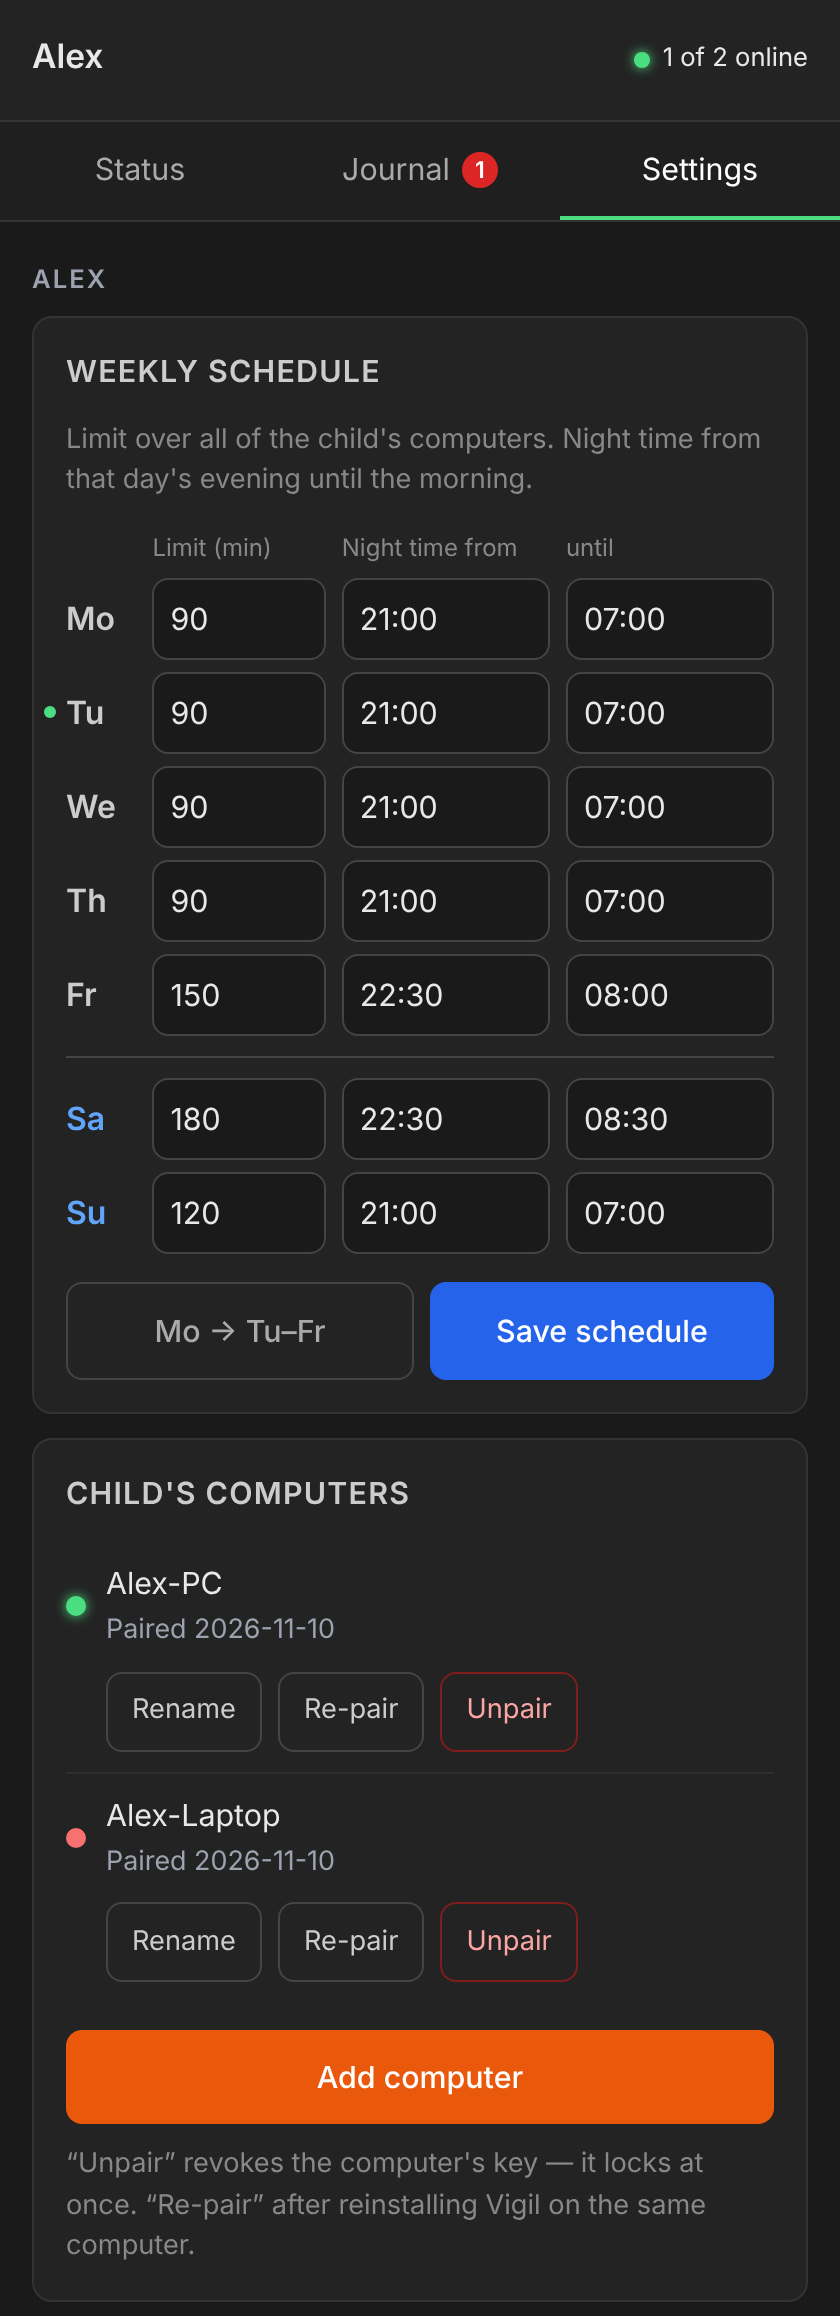
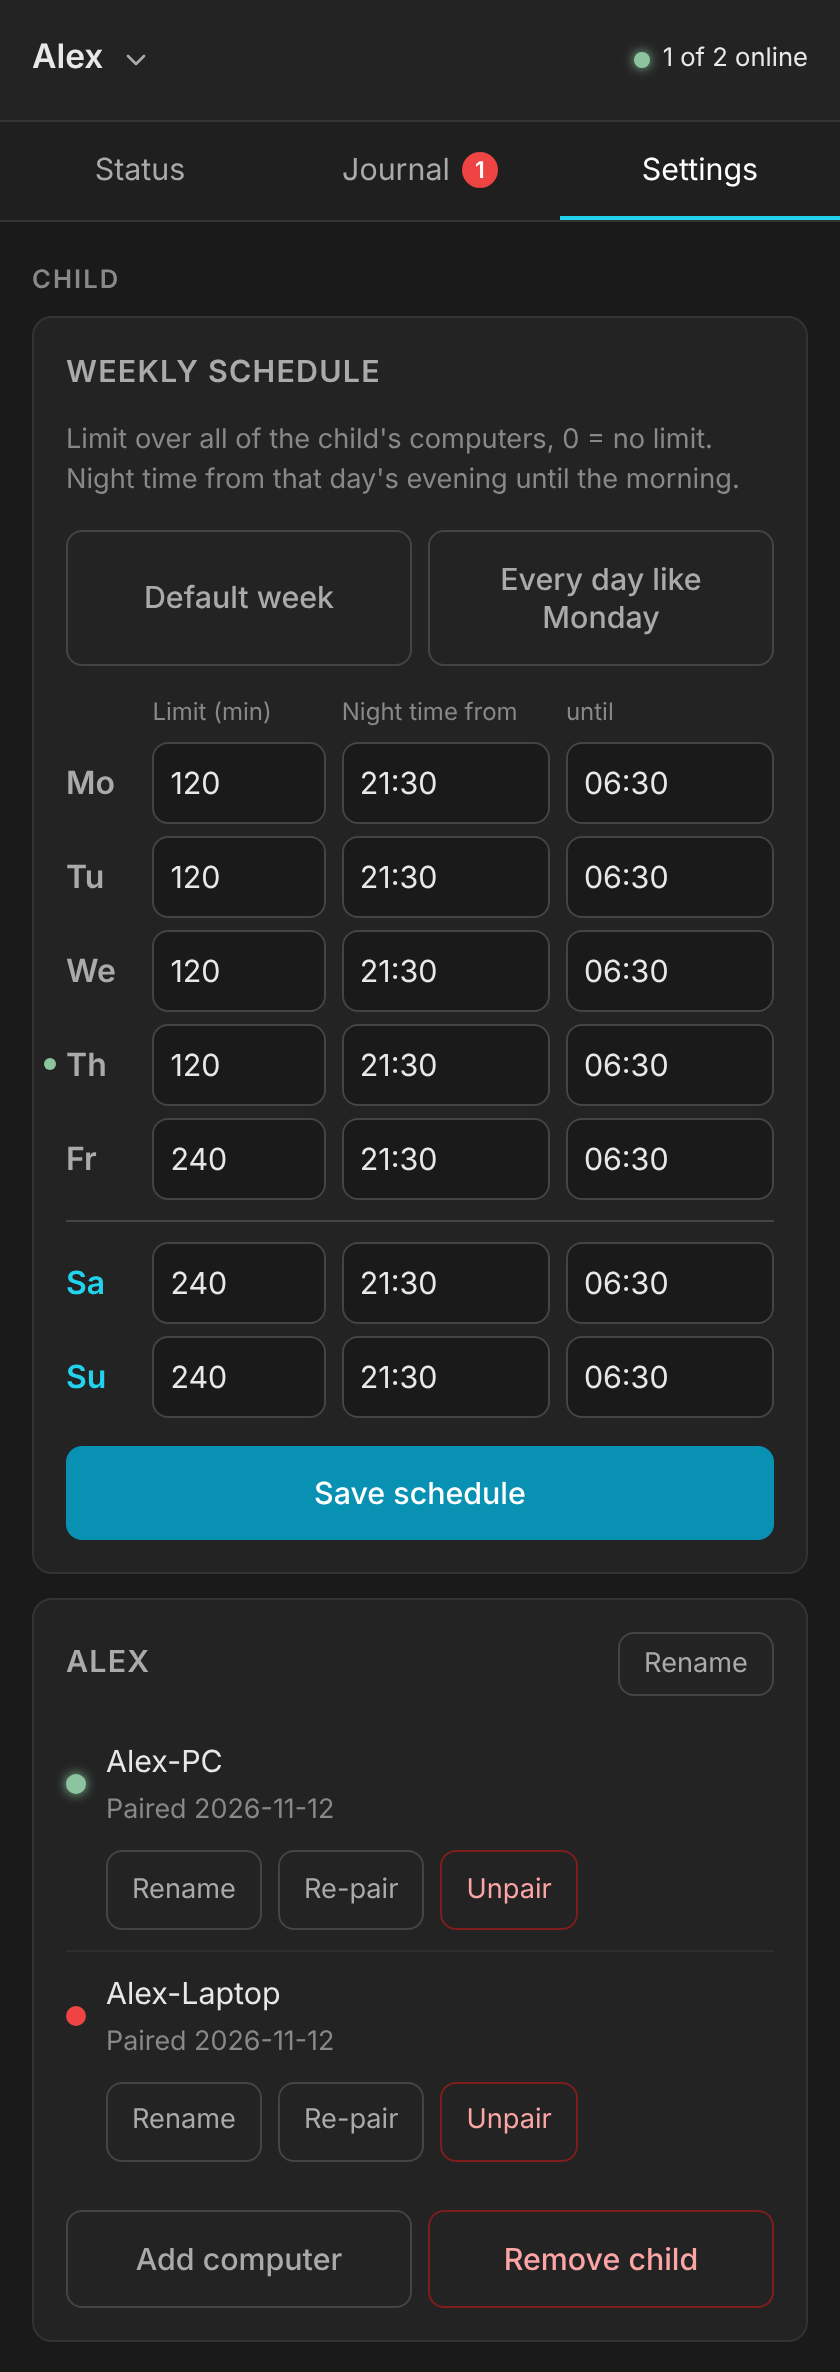
README and docs before v0.9.0: screenshots, Journal, D27 (#145)
- Panel screenshots of the current panel (seeded server, 420 px, DPR 2, English).
- Lock screen screenshots (limit, night) under "How it works", each README in its language.
- Features: the Journal shows when a computer was on, asleep or shut down.
- D27: fail-closed whatever the network, no grace after logon (#128).

Claude-Session: https://claude.ai/code/session_01L3FN1F9eJCsp5bTe7gHHf8

diff --git a/CLAUDE.md b/CLAUDE.md
@@ -27,7 +27,7 @@ everywhere the same problem occurs, not only where it was reported.
   `e2e/ui-standalone.ps1` (CI, before it): vigil_ui's test mode for every lock reason must close itself after
   `--exit-after`; it prints the CPU use and ui.log.
 - `docs/architecture.md` — protocol, IPC, file paths, time accounting. Read it before touching those.
-- `docs/decisions.md` — the design decisions D1–D26 the code refers to. `docs/installer.md`, `docs/guardian.md`
+- `docs/decisions.md` — the design decisions D1–D27 the code refers to. `docs/installer.md`, `docs/guardian.md`
   describe those parts. When a doc and the code disagree, the code wins: fix the doc.
 
 ## Verify before saying "done"
@@ -47,7 +47,7 @@ everywhere the same problem occurs, not only where it was reported.
 ## Invariants (changing any of these is a design decision — ask first)
 - **Fail-closed**: no server answer since the service started, or none for 30 s (monotonic clock, which counts
   sleep: after a wake-up the first failed heartbeat locks) ⇒ lock. Never fail-open. Whether the PC has a network
-  at all only picks the message (`network_down`, #128) — the child can switch Wi-Fi off without elevation.
+  at all only picks the message (`network_down`, #128, D27) — the child can switch Wi-Fi off without elevation.
 - **uvicorn `--workers 1`**: time accounting relies on a single process + `asyncio.Lock` in `get_db()`.
 - **Time is server-side**: delta between a device's heartbeats, clamped to `heartbeat_delta_max`, zero after a gap,
   added to its child (D7: time = sum over the child's devices; locks and settings are per child).

diff --git a/README.pl.md b/README.pl.md
@@ -36,6 +36,12 @@ wszystkim z przeglądarki i odblokowuje kodem TOTP z telefonu.
 - Zadanie strażnika przywraca to, co utrzymuje usługę przy życiu; każda naprawa i każdy inny ślad manipulacji
   trafia jako alert do panelu rodzica.
 
+<p align="center">
+  <img src="docs/images/lock-limit.pl.png" alt="Ekran blokady: czas na dziś się skończył, pole na kod od rodzica" width="380">
+  &nbsp;
+  <img src="docs/images/lock-night.pl.png" alt="Ekran blokady w ciszy nocnej: komputer odblokuje się o 06:30" width="380">
+</p>
+
 Szczegóły (po angielsku): [`docs/architecture.md`](docs/architecture.md).
 
 ## Co potrafi
@@ -45,7 +51,8 @@ Szczegóły (po angielsku): [`docs/architecture.md`](docs/architecture.md).
 - Blokada ręczna i dodatkowy czas z panelu; dodatkowy czas także kodem TOTP wpisanym na ekranie blokady.
 - Odblokowanie kodem z telefonu działa bez połączenia z serwerem.
 - Pauza uruchamiana przez dziecko z zasobnika: czas nie leci, ekran jest zablokowany.
-- Dziennik w panelu rodzica z alertami o próbach obejścia Vigila, potwierdzanymi przez rodzica.
+- Dziennik w panelu rodzica: kiedy każdy komputer był włączony, uśpiony albo wyłączony, co zmienił rodzic,
+  i alerty o próbach obejścia Vigila, potwierdzane przez rodzica.
 - Panel, ekran blokady i instalator po polsku albo angielsku — według języka przeglądarki i Windows.
 - Klient to jeden plik, `vigil_setup.exe`: kreator w konsoli do instalacji, menu do sprawdzenia, aktualizacji,
   ponownego parowania i odinstalowania.

diff --git a/README.md b/README.md
@@ -36,6 +36,12 @@ manages everything from a browser and unlocks with a TOTP code from their phone.
 - A guardian task puts back what keeps the service running; every repair and every other sign of tampering
   ends up as an alert in the parent panel.
 
+<p align="center">
+  <img src="docs/images/lock-limit.png" alt="Lock screen: the time for today is up, a field for the parent's code" width="380">
+  &nbsp;
+  <img src="docs/images/lock-night.png" alt="Lock screen at night time: the computer unlocks at 06:30" width="380">
+</p>
+
 Details: [`docs/architecture.md`](docs/architecture.md).
 
 ## Features
@@ -45,7 +51,8 @@ Details: [`docs/architecture.md`](docs/architecture.md).
 - Manual lock and extra time from the panel; extra time also with a TOTP code typed on the lock screen.
 - Unlocking with the phone code works without a connection to the server.
 - A pause the child starts from the tray: time is not counted, the screen is locked.
-- Journal in the parent panel with alerts about attempts to get around Vigil, confirmed by the parent.
+- Journal in the parent panel: when each computer was on, asleep or shut down, what the parent changed, and
+  alerts about attempts to get around Vigil, confirmed by the parent.
 - Panel, lock screen and installer in English or Polish, following the browser and Windows language.
 - The client is one file, `vigil_setup.exe`: a console wizard to install, a menu to check, update, re-pair or uninstall.
 

diff --git a/docs/architecture.md b/docs/architecture.md
@@ -1,6 +1,6 @@
 # Architecture
 
-How the system works today. The decisions behind it (D1–D26) are in [`decisions.md`](decisions.md), the
+How the system works today. The decisions behind it (D1–D27) are in [`decisions.md`](decisions.md), the
 installer in [`installer.md`](installer.md), the guardian in [`guardian.md`](guardian.md).
 
 ```
@@ -162,7 +162,7 @@ Wi-Fi joined, cable in).
    (local message), unless an offline grant is active (see Offline unlock). Also on request timeouts and
    unexpected exceptions. The grace runs on `Environment.TickCount64`, which counts sleep: after a wake-up — also
    from a shutdown with Fast Startup, which hibernates the service instead of stopping it — the PC is locked until
-   the server answers, so a PC that joins Wi-Fi after logon shows the lock for those seconds (#128).
+   the server answers, so a PC that joins Wi-Fi after logon shows the lock for those seconds (#128, D27).
    The reason only changes the message, never the lock: `device_unpaired` when the last failure was the server
    refusing this computer's key (401 `invalid_signature`: removed or re-paired in the panel), so the lock screen
    says the PC needs pairing again; `network_down` when this PC has no network at all (the connect found no

diff --git a/docs/decisions.md b/docs/decisions.md
@@ -1,6 +1,6 @@
 # Design decisions
 
-The decisions the code refers to as D1–D26, in short. The reasoning behind each is in the issues and pull
+The decisions the code refers to as D1–D27, in short. The reasoning behind each is in the issues and pull
 requests named next to it; the threat model in full is in the [README](../README.md#threat-model).
 
 | # | Decision |
@@ -31,6 +31,7 @@ requests named next to it; the threat model in full is in the [README](../README
 | D24 | Nothing from the child's environment reaches the lock screen process: the watchdog builds `vigil_ui`'s environment from a fixed list with .NET diagnostics off, startup hooks are disabled, and no native library is extracted at run time (#79). |
 | D25 | Published as the same repository, with its history, issues and pull requests. |
 | D26 | Schema migrations start from the v0.8 schema: no database of an earlier version is migrated (#78). |
+| D27 | Fail-closed whatever the PC's network: no server answer since the service started or woke up (Fast Startup included), or none for 30 s, locks at once, without a grace period after logon. No network at all only changes the lock screen's message, never the decision: the child can switch Wi-Fi off without elevation (#128). |
 
 ## Open
 

diff --git a/CHANGELOG.md b/CHANGELOG.md
@@ -1,7 +1,7 @@
 # Changelog
 
 User-visible changes. The format follows [Keep a Changelog](https://keepachangelog.com/en/1.1.0/); versions follow
-the release tags. The reasoning behind each design decision (D1–D26) is in [`docs/decisions.md`](docs/decisions.md).
+the release tags. The reasoning behind each design decision (D1–D27) is in [`docs/decisions.md`](docs/decisions.md).
 
 ## [Unreleased]
 
